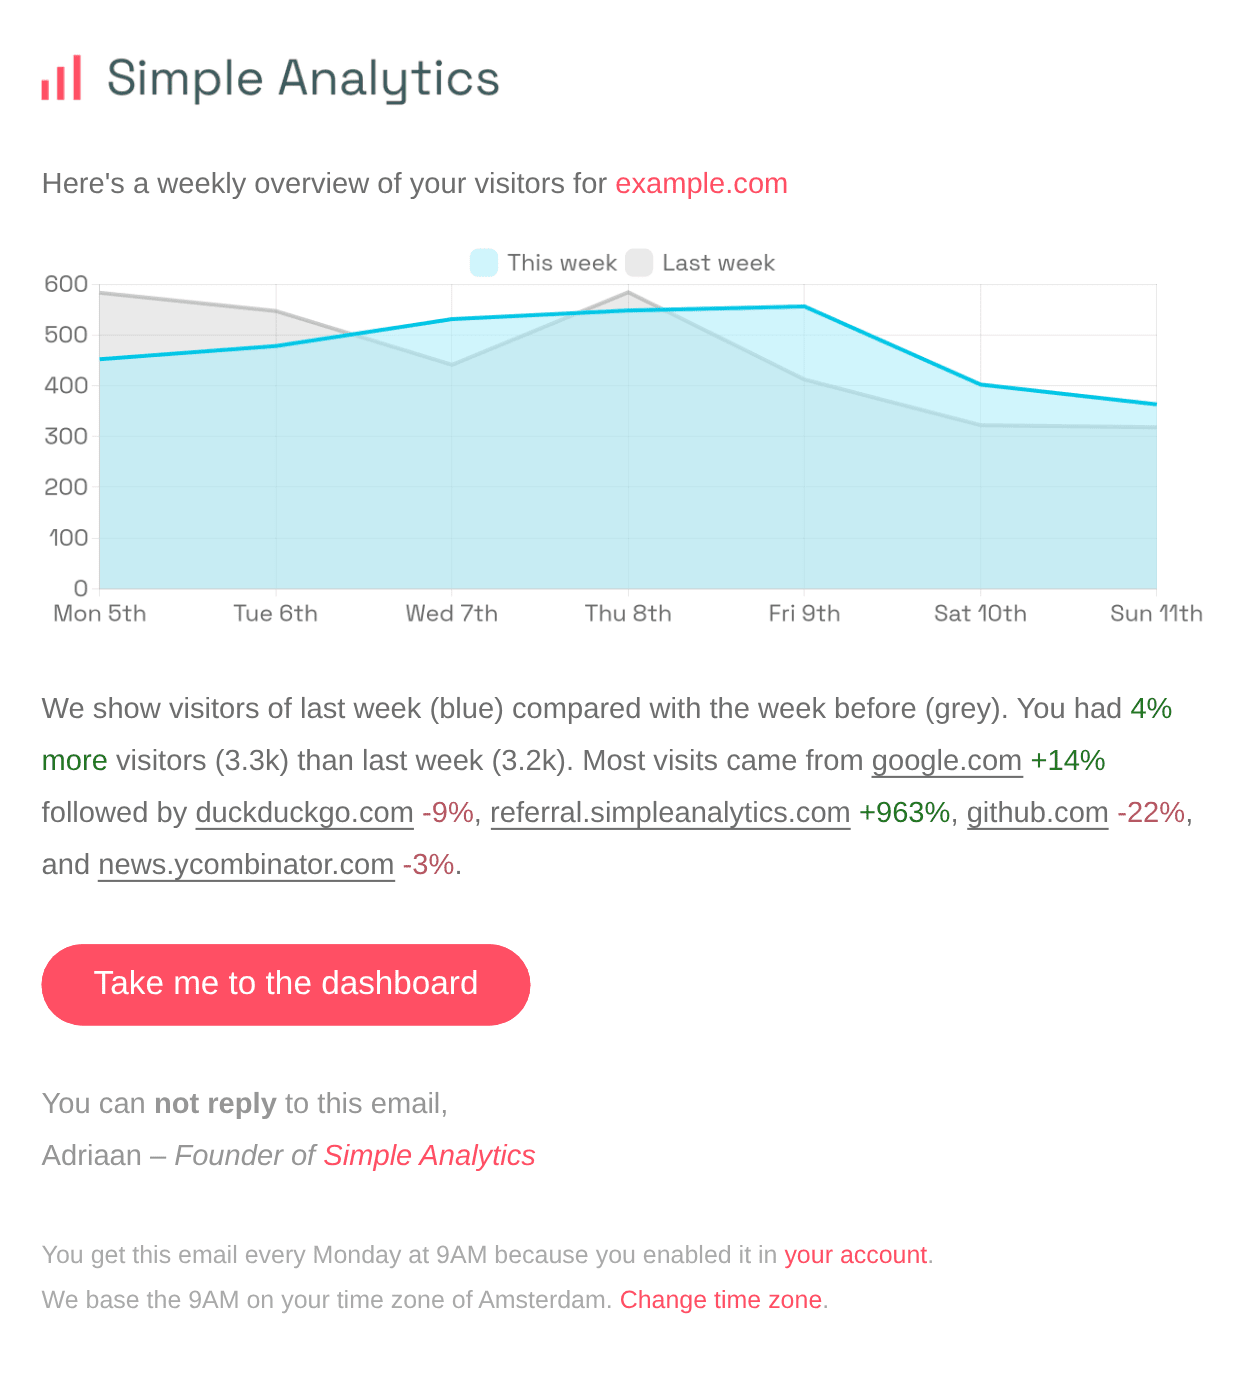
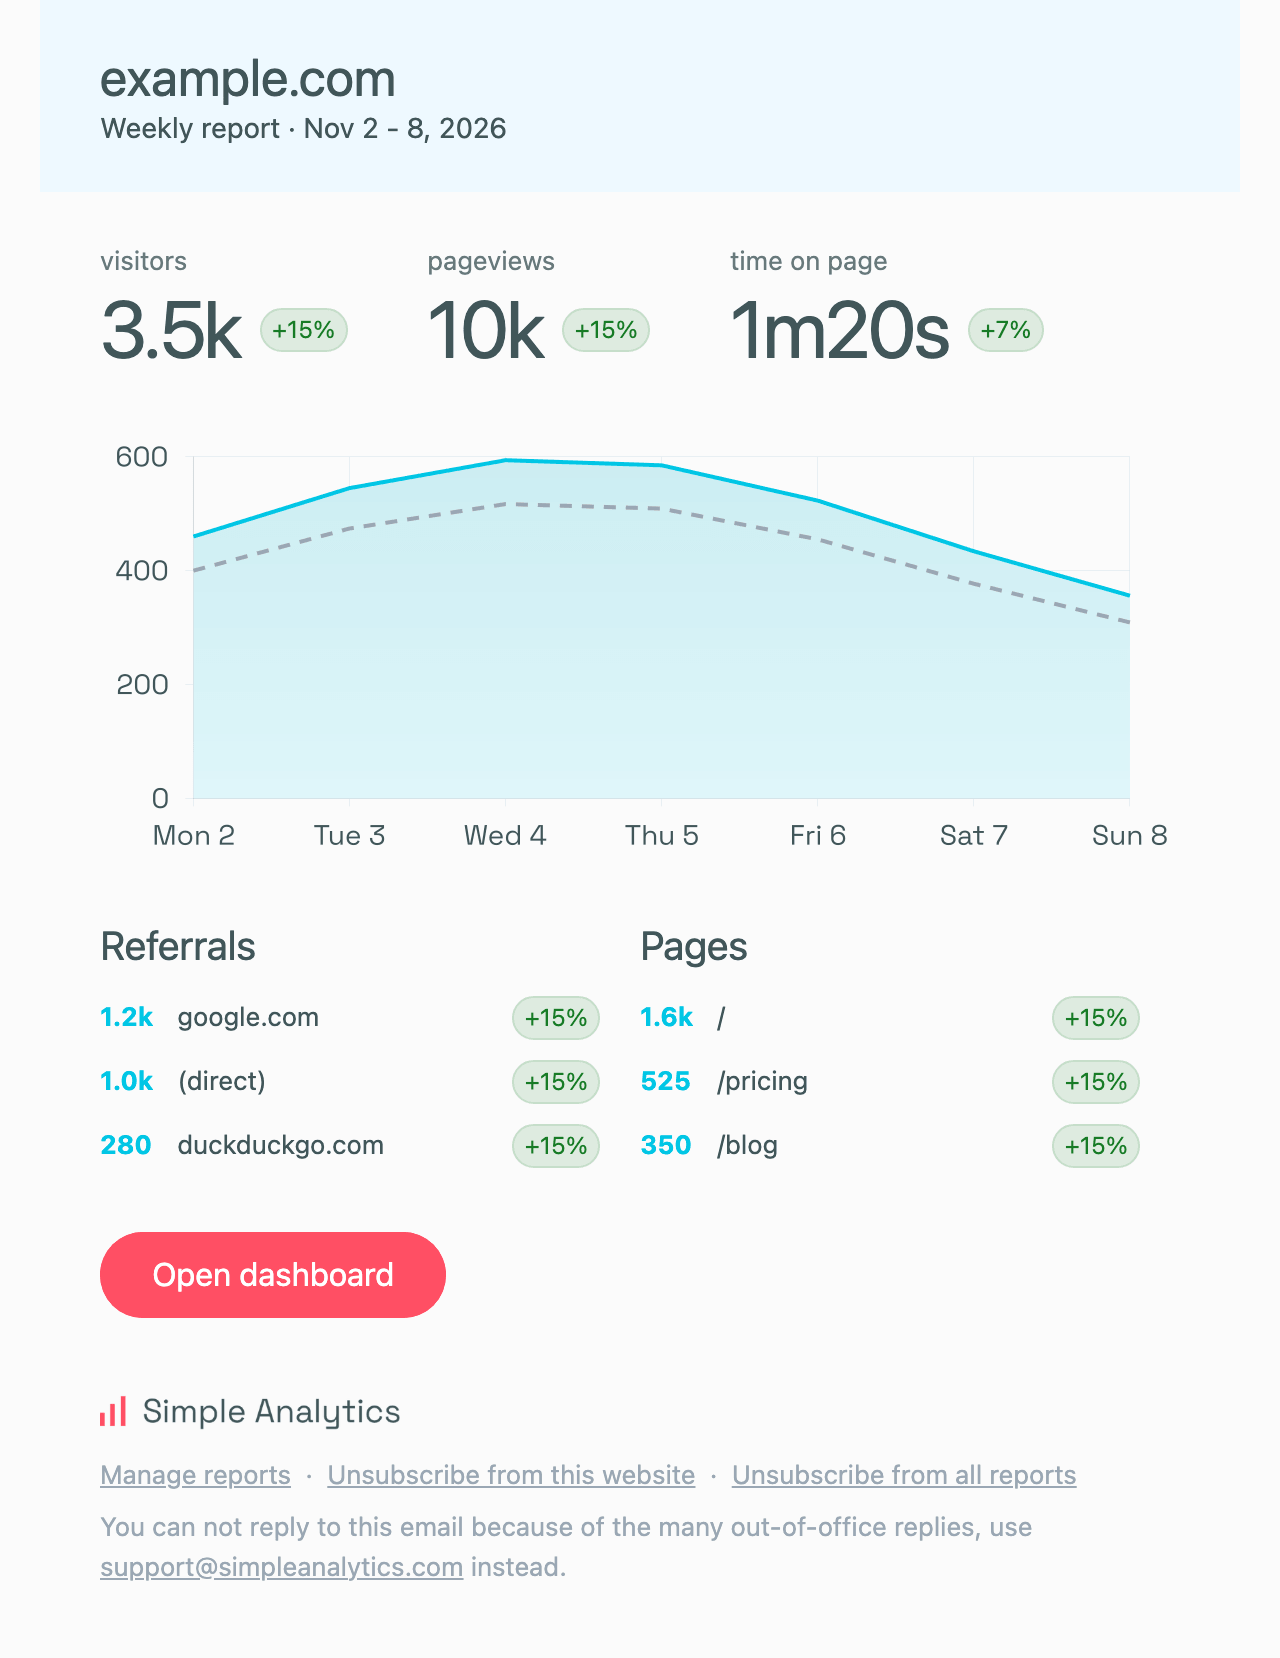
Explain combined email reports, recipients and unsubscribe options
- Cover report contents, delivery times and adding recipients with AI apps
- Update screenshots for single and combined reports

diff --git a/_docs/30_features/15_email-reports.md b/_docs/30_features/15_email-reports.md
@@ -2,25 +2,65 @@
 title: Email reports
 category: features
 permalink: /email-reports
-last_modified_at: 2026-10-17
+last_modified_at: 2026-11-10
 ---
 
-Want to start your Monday morning by checking how your website is doing? Want to send updates to others? Use our weekly or monthly email reports so you don't have to check the dashboard all the time. Never miss that spike of traffic.
+Want to start your Monday morning by checking how your website is doing? Want to keep others up to date? Weekly or monthly email reports bring your most important numbers to your inbox, so you don't have to open the dashboard. Never miss that spike of traffic.
 
-Monthly email reports are enabled by default for new websites. They have also been enabled for eligible members of existing teams. If you don't want to receive these reports, use the one-click link in the first automatically enabled email or turn them off in [your website settings](https://simpleanalytics.com/select-website/settings#email-reports).
+Monthly email reports are enabled by default for new websites. We also enabled them for eligible members of existing teams. Every report has links at the bottom to [turn it off](#unsubscribe).
 
-> The unsubscribe link in a report email turns off all email reports for that email address, for every website. You can't add the address back to those reports yourself, so [contact us](https://simpleanalytics.com/contact) if this was a mistake. To stop the report for one website only, click **remove** next to the recipient in [your website settings](https://simpleanalytics.com/select-website/settings#email-reports).
+## What's in a report
 
-In your website settings, you can also add a report or choose between weekly and monthly reports. Look for the section that looks like this:
+<img class="border" style="width: 640px; max-width: 100%;" src="../../images/email-report.png" alt="A weekly email report of example.com with visitors, pageviews and time on page, a chart of visitors per day, and the top referrals and pages">
 
-<img class="border" style="width: 717px; max-width: 100%;" src="../../images/email-report-setting.png" alt="">
+A report looks like your dashboard and shows:
 
-The email will look more or less like this:
+- **Visitors, pageviews and time on page** with the change compared to the previous week or month. These are the same numbers your dashboard shows for that period.
+- **A chart of visitors per day.** The dashed line shows the previous period.
+- **The top 5 referrals and pages** with their changes. A referral or page marked **new** had no visits in the previous period. Pages are left out when **Hide top pages** is on in your website settings.
 
-<img class="border" style="width: 100%;" src="../../images/email-report.png" alt="">
+Click the website name, the chart or **Open dashboard** to see the same period in your dashboard. Click a referral or page to see the dashboard filtered on it.
 
-It includes the top 5 referrers and we compare them with the previous period. This gives you an indication of where your website is getting its traffic from, and how those numbers might have changed.
+A weekly report covers Monday to Sunday and a monthly report the whole month, in the time zone of your website. We leave out websites without visitors in that period, so you don't get empty reports.
 
-In the example above it shows that we got significantly more traffic from our referral website _(referral.simpleanalytics.com <span style="color: var(--color-success);">+963%</span>)_ than last week. Time for us to find out why. Thanks email report :)
+Some reports end with a short list of what we built that week or month. You can't reply to a report, so email [support@simpleanalytics.com](mailto:support@simpleanalytics.com) with questions or ideas.
 
-We send this email at 9AM in your local time zone. You can change this time zone per website in your [website settings](https://simpleanalytics.com/select-website/settings#timezone).
+## Several websites in one email
+
+When you get reports for more than one website, they arrive in one email, with the websites with the most visitors first. Up to 3 websites get the full report from above. With more websites, each website gets one row with its visitors, pageviews and time on page:
+
+<img class="border" style="width: 640px; max-width: 100%;" src="../../images/email-report-combined.png" alt="A weekly email report for 8 websites with one row of visitors, pageviews and time on page per website">
+
+Weekly and monthly reports come in separate emails. If you're in more than one team, you get one email per team.
+
+## When reports arrive
+
+We send weekly reports on Monday and monthly reports on the first day of the month, at 9AM in the time zone of your website. You can change the time zone in your [website settings](https://simpleanalytics.com/select-website/settings#timezone). When one email has websites in different time zones, we send it once it's 9AM for all of them.
+
+After you add a recipient, their first report arrives at the start of the next week or month.
+
+## Add recipients
+
+You can ask your AI app to add a report, for example _"Send me a weekly report of example.com"_. See [Connect AI apps with MCP](/mcp). AI apps can only add reports for people who have access to the website in Simple Analytics.
+
+You can also add a report in [your website settings](https://simpleanalytics.com/select-website/settings#email-reports). Enter an email address, choose **Weekly** or **Monthly** and click **Add recipient**:
+
+<img class="border" style="width: 717px; max-width: 100%;" src="../../images/email-report-setting.png" alt="The email reports section of the website settings with a list of recipients and a form to add one">
+
+You can add people who don't use Simple Analytics too. We email them to say who added them. Your plan sets how many email reports you can add.
+
+To stop the reports for one recipient, click **remove** next to them. Admins can remove every report, [developers and analysts](/explained/team-roles) only the reports they added.
+
+## Unsubscribe
+
+Every report has these links at the bottom:
+
+- **Manage reports** opens the email report settings of the website. In an email with several websites, it opens your list of websites.
+- **Unsubscribe from this website** stops the reports of that website for your email address. In an email with several websites, this link is **Unsubscribe from these reports** and stops the reports of all websites in the team at the top of the email.
+- **Unsubscribe from all reports** stops all reports to your email address, for every website. Nobody can add your email address again.
+
+The unsubscribe button that some email apps show next to the sender works like the second link.
+
+Unsubscribed by mistake? The page that confirms your unsubscribe has a link to subscribe again. If that link isn't there, [contact us](https://simpleanalytics.com/contact).
+
+When a recipient unsubscribes, you can't add them to the reports of that website again. Only they can subscribe again.
